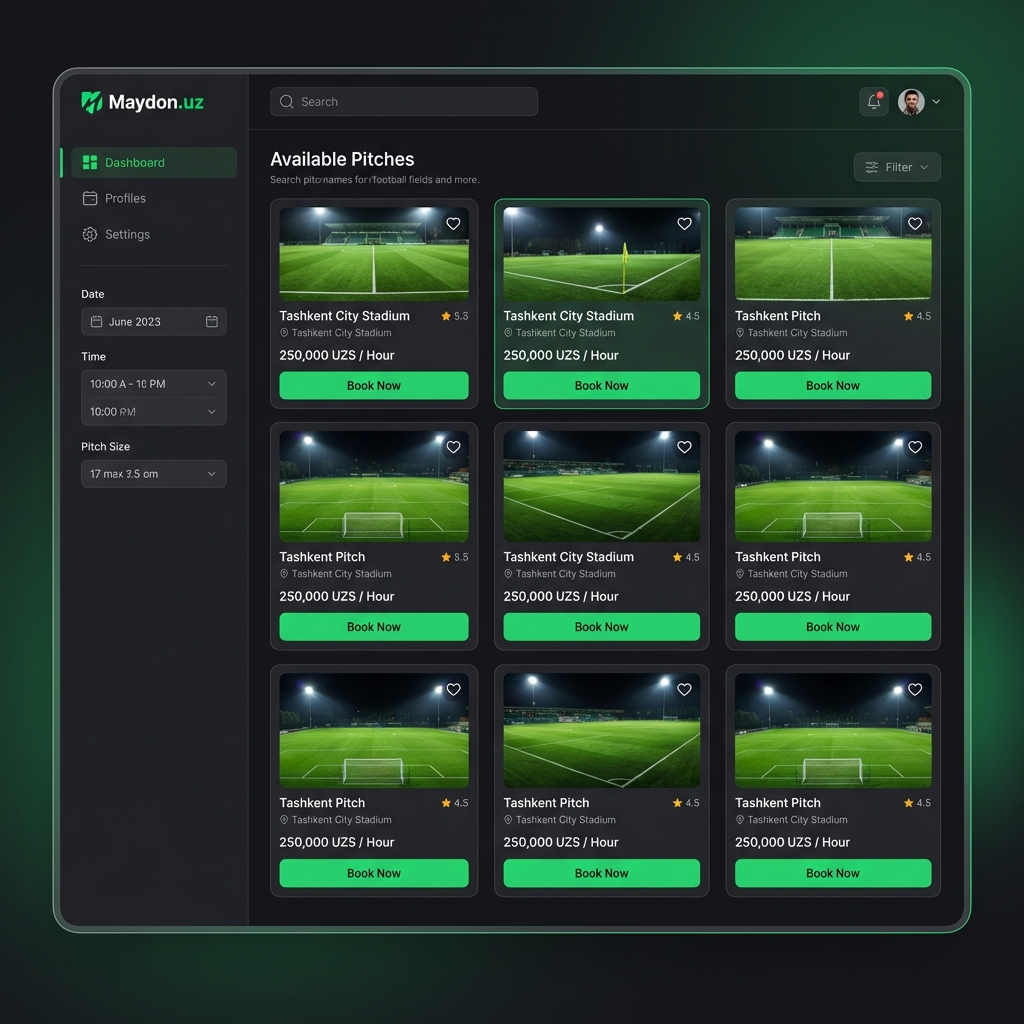
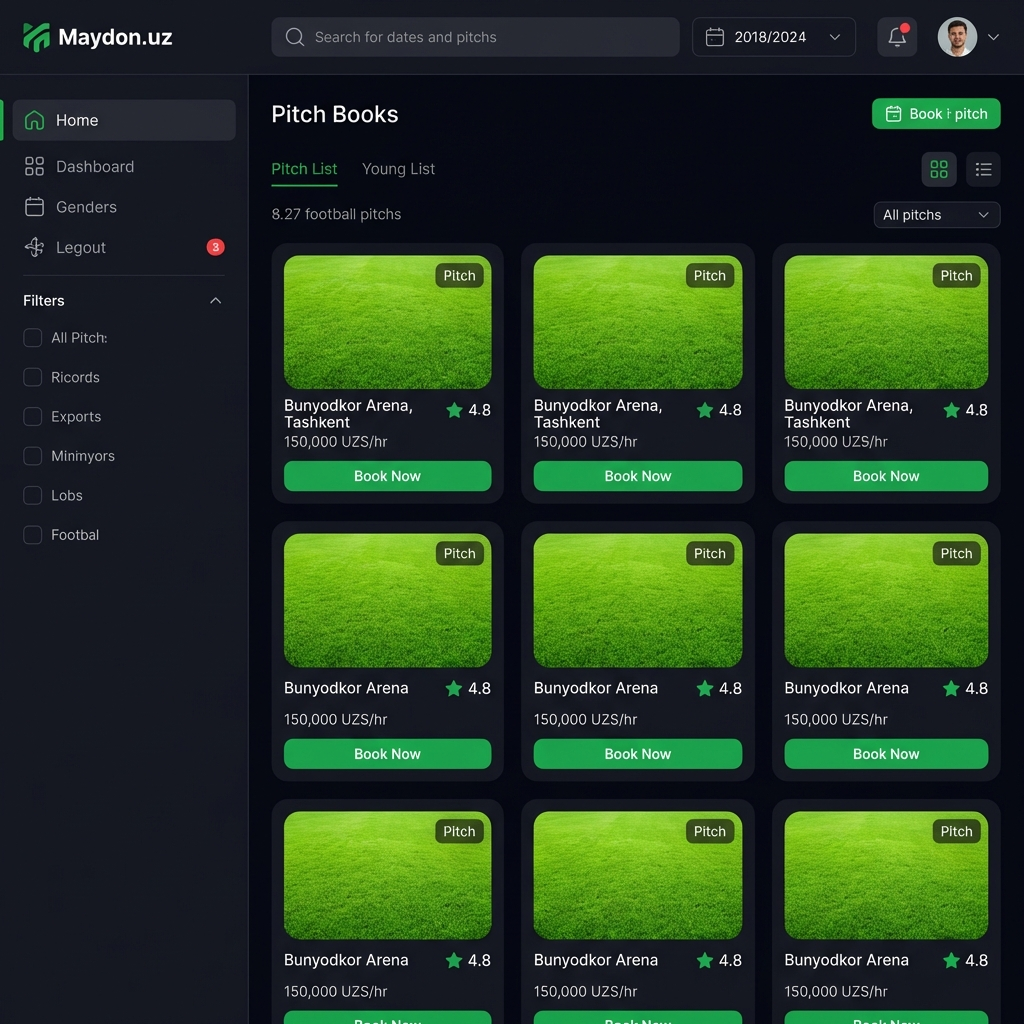
Update: Enhance project images and titles based on repo content

diff --git a/src/data/constants.js b/src/data/constants.js
@@ -30,16 +30,16 @@ export const PROJECTS = [
         image: "/images/maydonuz.png"
     },
     {
-        title: "Task Planner Web-App",
-        description: "Real-time task collaboration tool with drag-and-drop interface and team features.",
+        title: "AI Study Planner",
+        description: "AI-powered study/task planner with gamification, Pomodoro timer, and deep work focus tools.",
         tech: ["Next.js", "TypeScript", "Tailwind", "Supabase"],
         github: "https://github.com/Farhodoff/task_planner",
         demo: "https://task-planner-tau.vercel.app/",
         image: "/images/task_planner.png"
     },
     {
-        title: "UI Components Library",
-        description: "A collection of reusable, accessible, and modern React components built with Tailwind CSS.",
+        title: "Super UI (Components)",
+        description: "Comprehensive React UI library with accessible, themeable components and documentation.",
         tech: ["React", "Tailwind CSS", "Class Variance Authority"],
         github: "https://github.com/Farhodoff/components-main",
         demo: "https://components-main-nu.vercel.app/",